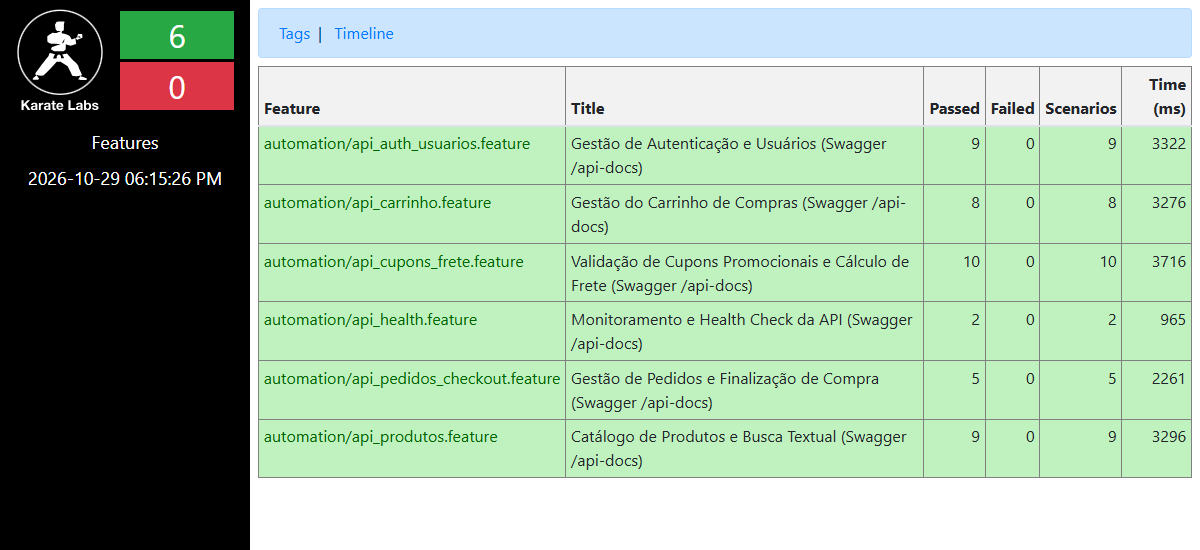
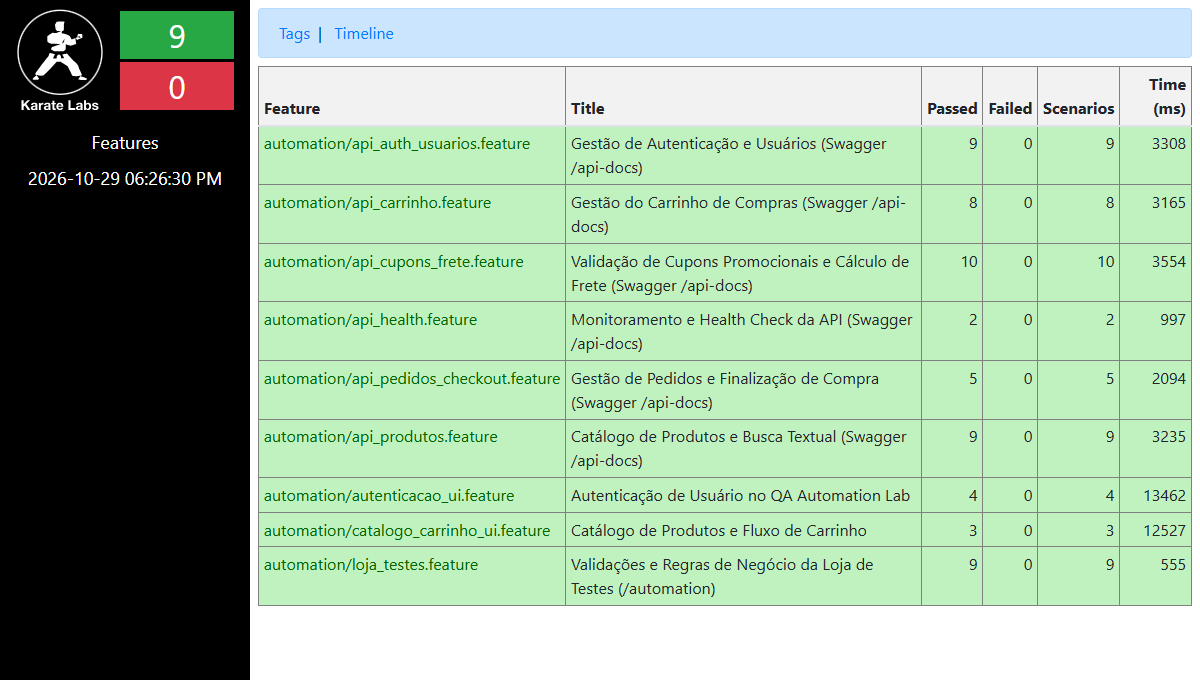
docs: update execution report print with all 9 features and 59 scenarios

diff --git a/karate-automation-portfolio/src/test/java/automation/TestRunner.java b/karate-automation-portfolio/src/test/java/automation/TestRunner.java
@@ -11,6 +11,25 @@ import com.intuit.karate.junit5.Karate;
 public class TestRunner {
 
     /**
+     * Executa a suíte completa contendo todos os testes de API (Swagger OpenAPI)
+     * e todas as automações de interface gráfica (UI) da aplicação.
+     */
+    @Karate.Test
+    Karate testAll() {
+        return Karate.run(
+            "api_health",
+            "api_auth_usuarios",
+            "api_produtos",
+            "api_carrinho",
+            "api_cupons_frete",
+            "api_pedidos_checkout",
+            "loja_testes",
+            "autenticacao_ui",
+            "catalogo_carrinho_ui"
+        ).relativeTo(getClass());
+    }
+
+    /**
      * Executa todos os testes de API documentados no Swagger OpenAPI:
      * - Health Check (/api/health)
      * - Autenticação e Gestão de Usuários (/api/auth/* e /api/users/*)

diff --git a/README.md b/README.md
@@ -124,8 +124,11 @@ A suíte cobre integralmente todos os módulos e operações descritas no Swagge
 | **Frete CEP** | `POST` | `/api/shipping/calculate` | [`api_cupons_frete.feature`](karate-automation-portfolio/src/test/java/automation/api_cupons_frete.feature) | **4** | 🟢 100% |
 | **Pedidos** | `GET`, `POST` | `/api/orders` | [`api_pedidos_checkout.feature`](karate-automation-portfolio/src/test/java/automation/api_pedidos_checkout.feature) | **3** | 🟢 100% |
 | **Consulta Pedido**| `GET` | `/api/orders/{id}` | [`api_pedidos_checkout.feature`](karate-automation-portfolio/src/test/java/automation/api_pedidos_checkout.feature) | **2** | 🟢 100% |
+| **Autenticação UI** | `Browser / CDP` | `/automation` | [`autenticacao_ui.feature`](karate-automation-portfolio/src/test/java/automation/autenticacao_ui.feature) | **4** | 🟢 100% |
+| **Catálogo & Carrinho UI** | `Browser / CDP` | `/automation` | [`catalogo_carrinho_ui.feature`](karate-automation-portfolio/src/test/java/automation/catalogo_carrinho_ui.feature) | **3** | 🟢 100% |
+| **Regras da Loja** | `HTTP / Contrato` | `/automation` | [`loja_testes.feature`](karate-automation-portfolio/src/test/java/automation/loja_testes.feature) | **9** | 🟢 100% |
 
-> **Total de Cenários de API Automatizados:** **43 cenários** (100% de sucesso).
+> **Total da Suíte Unificada:** **9 Features / 59 Cenários Automatizados** (100% de sucesso e 0 falhas).
 
 ---
 
@@ -257,7 +260,7 @@ mvn test -Dtest=TestRunner#testDemoSuite
 
 | Comando | Descrição |
 | --- | --- |
-| `npm test` | **Executa a suíte completa de APIs do Swagger (43 cenários)** |
+| `npm test` | **Executa a suíte master completa (todos os 59 cenários de API e UI)** |
 | `npm run test:apis` | Alias para execução de todas as features de API |
 | `npm run test:health` | Executa os testes de Health Check (`GET /api/health`) |
 | `npm run test:auth` | Executa os testes de Login, Registro, Logout e Perfil |

diff --git a/karate-automation-portfolio/README.md b/karate-automation-portfolio/README.md
@@ -44,8 +44,11 @@ Ele implementa cobertura integral de testes de contrato e integração para as A
 | **Frete CEP** | `POST` | `/api/shipping/calculate` | [`api_cupons_frete.feature`](src/test/java/automation/api_cupons_frete.feature) | **4** | 🟢 100% |
 | **Pedidos** | `GET`, `POST` | `/api/orders` | [`api_pedidos_checkout.feature`](src/test/java/automation/api_pedidos_checkout.feature) | **3** | 🟢 100% |
 | **Consulta Pedido**| `GET` | `/api/orders/{id}` | [`api_pedidos_checkout.feature`](src/test/java/automation/api_pedidos_checkout.feature) | **2** | 🟢 100% |
+| **Autenticação UI** | `Browser / CDP` | `/automation` | [`autenticacao_ui.feature`](src/test/java/automation/autenticacao_ui.feature) | **4** | 🟢 100% |
+| **Catálogo & Carrinho UI** | `Browser / CDP` | `/automation` | [`catalogo_carrinho_ui.feature`](src/test/java/automation/catalogo_carrinho_ui.feature) | **3** | 🟢 100% |
+| **Regras da Loja** | `HTTP / Contrato` | `/automation` | [`loja_testes.feature`](src/test/java/automation/loja_testes.feature) | **9** | 🟢 100% |
 
-> **Total de Cenários de API do Swagger:** **43 cenários** com 100% de sucesso.
+> **Total da Suíte Completa:** **9 Features / 59 Cenários Automatizados** (100% de sucesso e 0 falhas).
 
 ---
 
